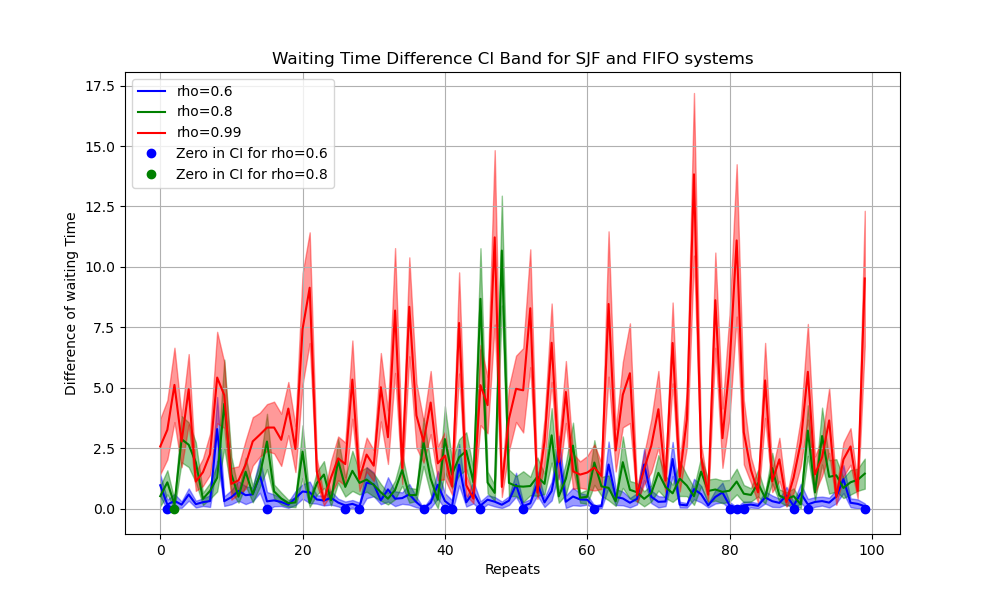
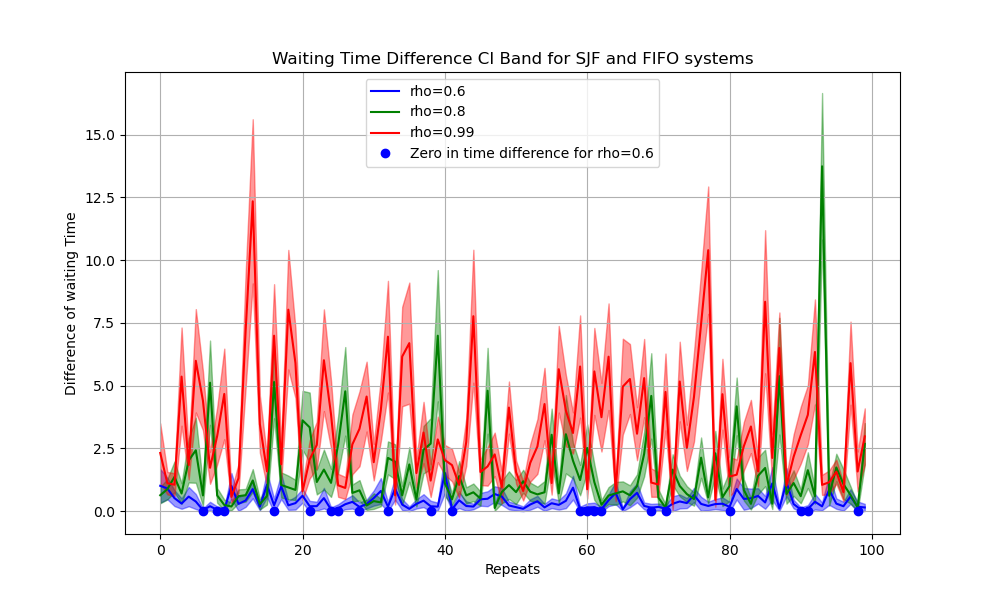
fix vertical axis in SJF CI

diff --git a/src/main.py b/src/main.py
@@ -118,7 +118,7 @@ def run_multi_CI_band_sjf():
 
     for i, key in enumerate(zero_points.keys()):
         if len(zero_points[key]) > 0:
-            plt.plot(zero_points[key], [0] * len(zero_points[key]), 'o', label=f"Zero in CI for rho={key}", color=color[i])
+            plt.plot(zero_points[key], [0] * len(zero_points[key]), 'o', label=f"Zero in time difference for rho={key}", color=color[i])
     
     plt.xlabel("Repeats")
     plt.ylabel("Difference of waiting Time")
